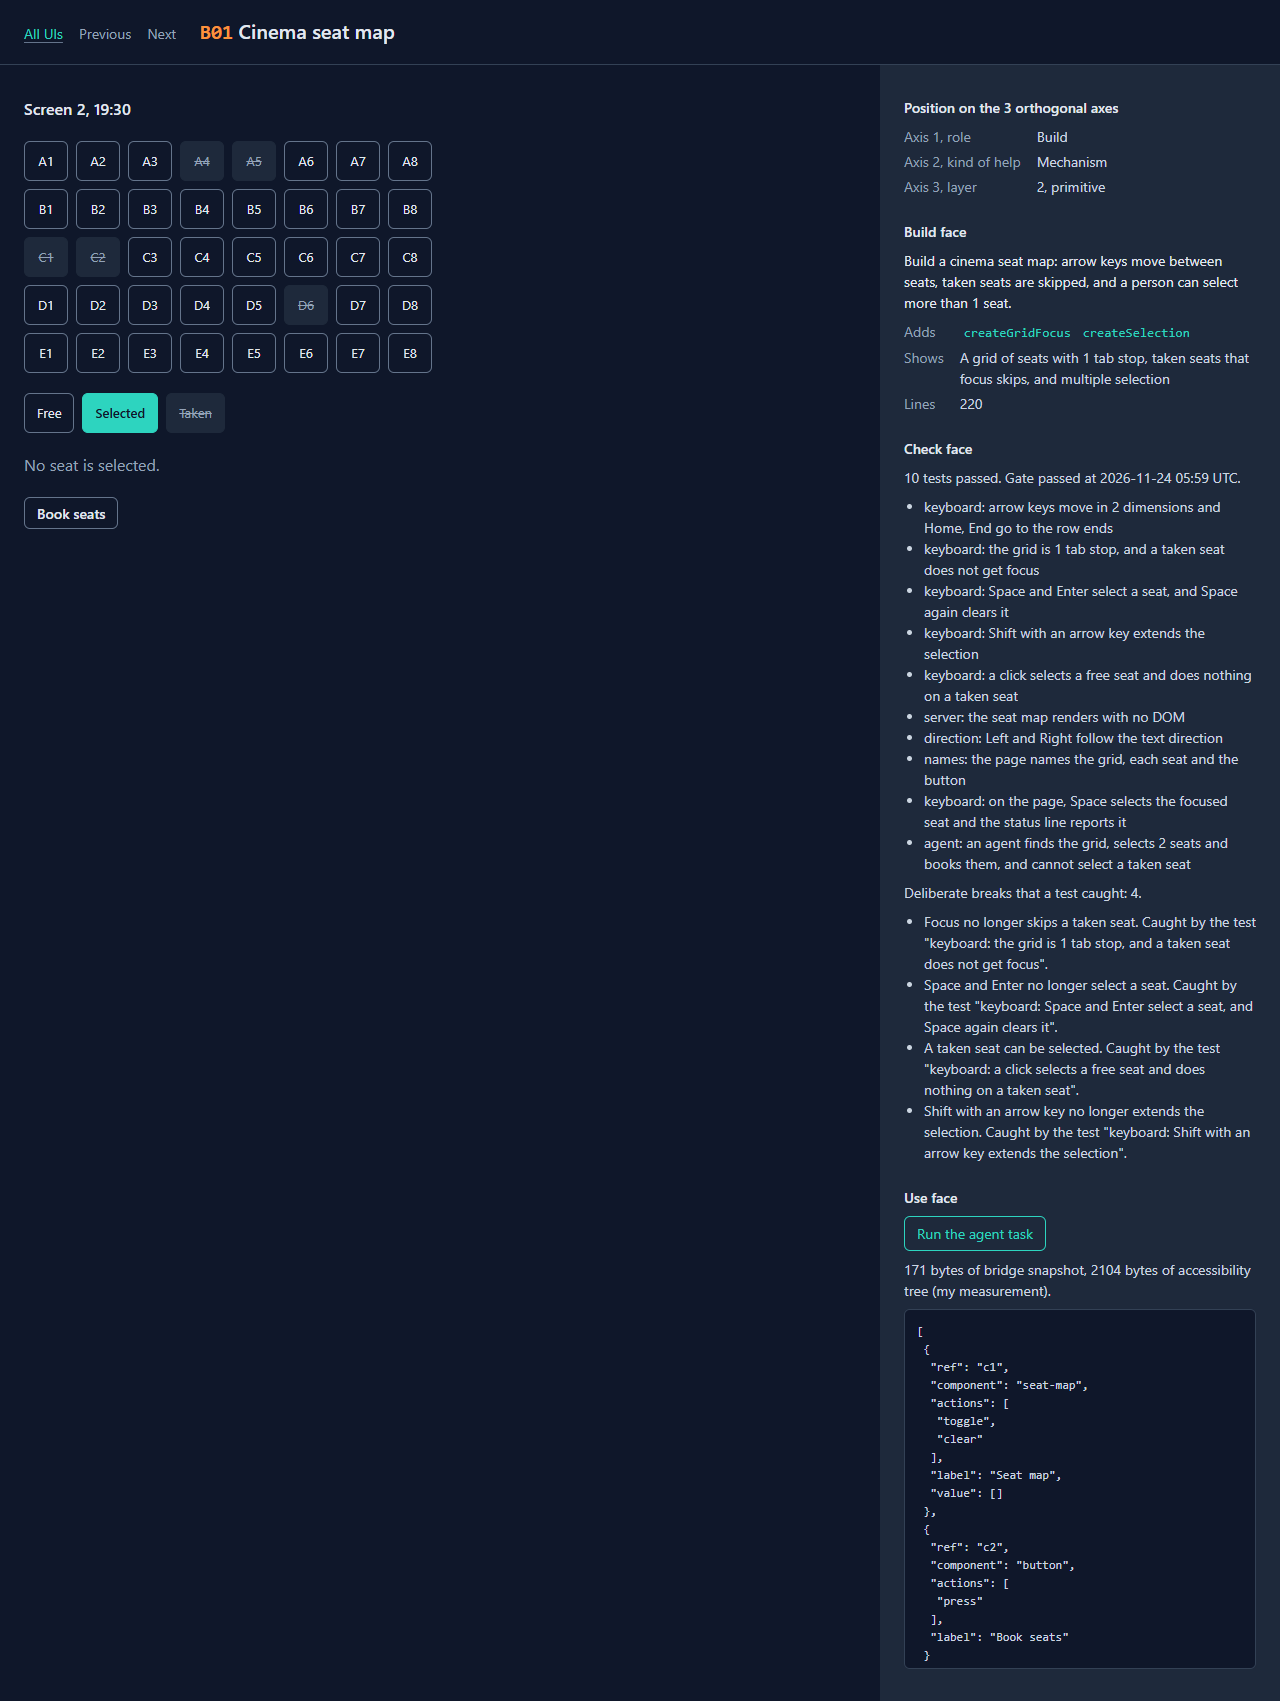
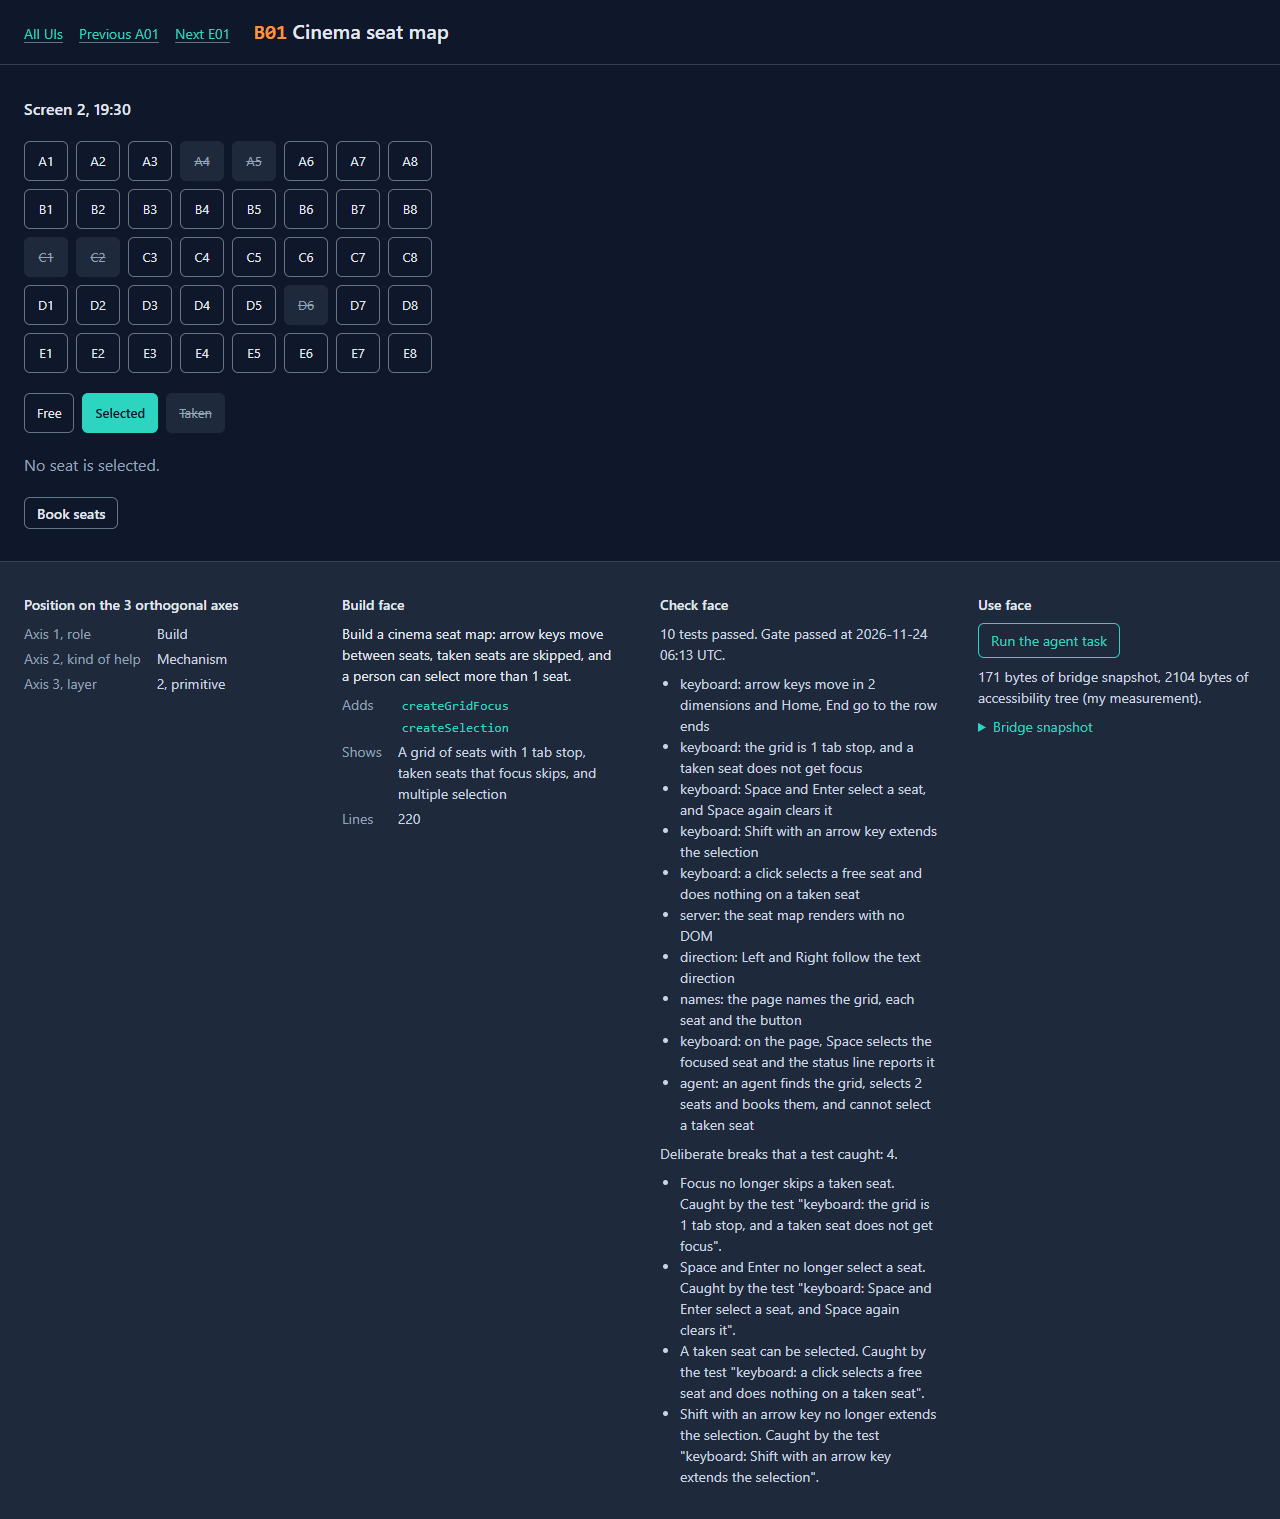
Gate reads detector JSON, card under the stage, gate output in .gate

diff --git a/src/shell.ts b/src/shell.ts
@@ -44,12 +44,15 @@ function show(entry: Entry, entries: Entry[]) {
     <main class="g-main">
       <section class="g-stage" data-stage data-ui="${row.id}" aria-label="${esc(row.title)}"></section>
       <aside class="g-card" data-agent-hidden aria-label="Card for ${row.id}">
+        <section>
         <h2>Position on the 3 orthogonal axes</h2>
         <dl>
           <dt>Axis 1, role</dt><dd>${row.role}</dd>
           <dt>Axis 2, kind of help</dt><dd>${row.kind}</dd>
           <dt>Axis 3, layer</dt><dd>${row.layer}, ${LAYERS[row.layer]}</dd>
         </dl>
+        </section>
+        <section>
         <h2>Build face</h2>
         <p class="g-request">${esc(def.request)}</p>
         <dl>
@@ -57,6 +60,8 @@ function show(entry: Entry, entries: Entry[]) {
           <dt>Shows</dt><dd>${esc(row.shows)}</dd>
           <dt>Lines</dt><dd>${lines}</dd>
         </dl>
+        </section>
+        <section>
         <h2>Check face</h2>
         ${
           result
@@ -70,12 +75,15 @@ function show(entry: Entry, entries: Entry[]) {
                <ul>${def.breaks.map((b) => `<li>${esc(b.broke)} Caught by the test "${esc(b.caught)}".</li>`).join("")}</ul>`
             : ""
         }
+        </section>
+        <section>
         <h2>Use face</h2>
         <p><button type="button" class="g-run">Run the agent task</button> <span class="g-outcome" role="status"></span></p>
         <p><span class="g-bytes"></span> bytes of bridge snapshot${
           result ? `, ${result.treeBytes} bytes of accessibility tree (my measurement)` : ""
         }.</p>
-        <pre class="g-snapshot" tabindex="0" aria-label="Bridge snapshot"></pre>
+        <details><summary>Bridge snapshot</summary><pre class="g-snapshot"></pre></details>
+        </section>
       </aside>
     </main>
     <div class="g-overlays" data-agent-hidden><ui-overlay-host></ui-overlay-host></div>`

diff --git a/src/shell.css b/src/shell.css
@@ -75,24 +75,21 @@ body {
   color: var(--g-muted);
 }
 
-.g-main {
-  display: grid;
-  grid-template-columns: minmax(0, 1fr) minmax(280px, 400px);
-  align-items: start;
-}
-
 .g-stage {
-  min-height: 60vh;
+  min-height: 55vh;
   align-content: start;
   padding: 32px 24px;
 }
 
 .g-card {
+  display: grid;
+  grid-template-columns: repeat(auto-fit, minmax(260px, 1fr));
+  gap: 8px 40px;
   padding: 8px 24px 32px;
+  border-top: 1px solid var(--g-line);
   background: var(--g-card);
   color: var(--g-soft);
   font-size: 0.875rem;
-  min-height: 100%;
 }
 
 .g-card h2 {
@@ -156,7 +153,7 @@ body {
 }
 
 .g-run:focus-visible,
-.g-snapshot:focus-visible,
+.g-card summary:focus-visible,
 .g-top a:focus-visible,
 .g-index a:focus-visible {
   outline: 2px solid var(--g-warm);
@@ -164,10 +161,8 @@ body {
 }
 
 .g-snapshot {
-  max-height: 360px;
   margin: 8px 0 0;
   padding: 12px;
-  overflow: auto;
   border: 1px solid var(--g-line);
   border-radius: 6px;
   background: var(--g-bg);
@@ -214,8 +209,8 @@ body {
   font-weight: 600;
 }
 
-@media (max-width: 800px) {
-  .g-main {
-    grid-template-columns: minmax(0, 1fr);
-  }
+.g-card summary {
+  margin-top: 8px;
+  color: var(--g-cool);
+  cursor: pointer;
 }
